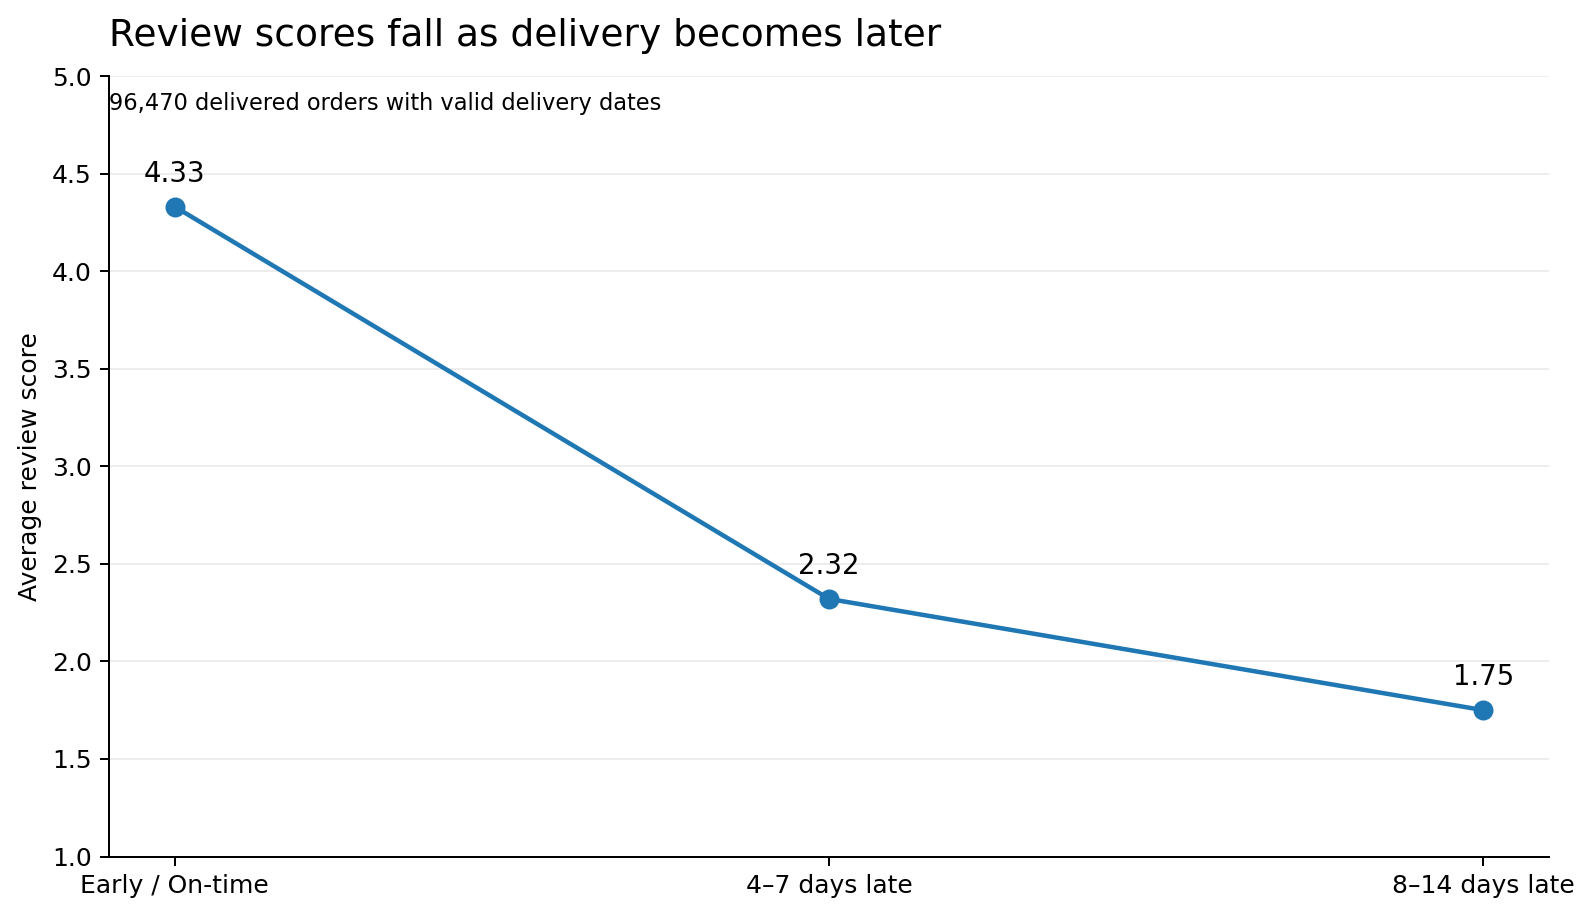
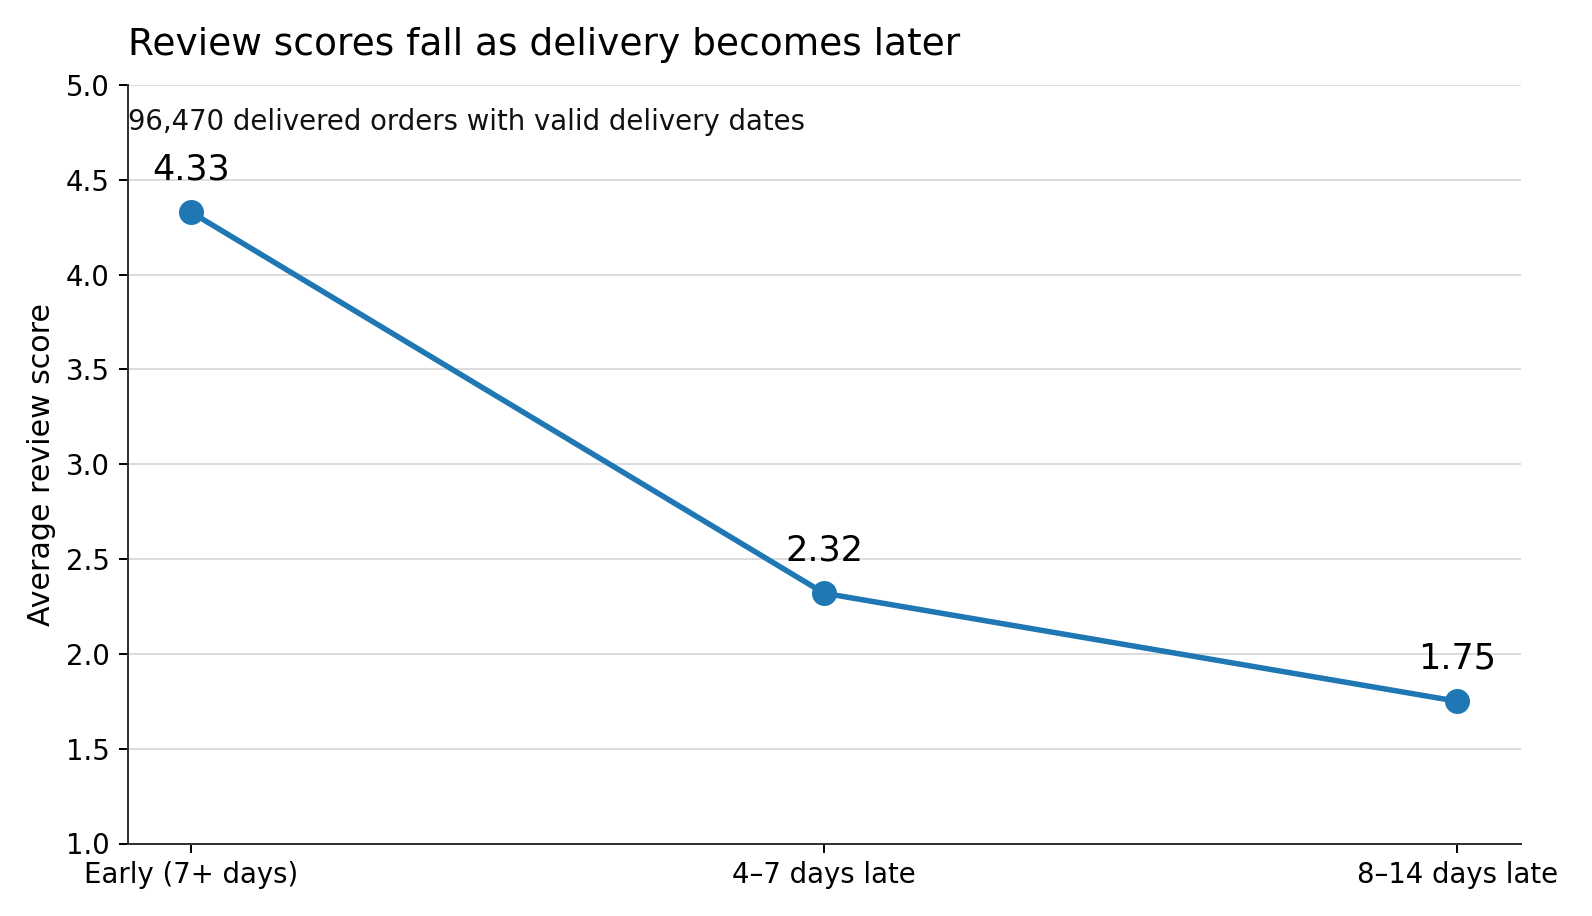
Correct chart labels and rebuild state chart from validated CSV

diff --git a/README.md b/README.md
@@ -18,7 +18,7 @@ Orders that arrive late get much worse reviews:
 
 | Delivery outcome | Avg review score | 1–2★ review share |
 |---|---|---|
-| Early / on time | 4.33 | 8.7% |
+| Early (7+ days) | 4.33 | 8.7% |
 | 4–7 days late | 2.32 | 61.2% |
 | 8–14 days late | 1.75 | 78.0% |
 
@@ -121,16 +121,19 @@ MA (384 orders, 22.7% late, review 4.018) and DF (799 orders, review 4.106).
 
 ## Visual Analysis
 
-The share of low (1–2★) reviews jumps from 8.7% for early/on-time orders to
-61.2% for orders 4–7 days late:
+The share of low (1–2★) reviews jumps from 8.7% for orders delivered 7+ days
+early to 61.2% for orders 4–7 days late:
 
 ![Low ratings become much more common with late delivery](outputs/02_delay_vs_low_review_share.png)
 
-Comparing the priority states with the best-performing eligible reference
-state (RS). Bars are negative because these orders, on average, still arrive
-before the (conservative) estimate — the question is how much earlier:
+All 22 seller states, ordered by average delivery delay (worst at top).
+Orders on average still arrive before Olist's conservative estimates, so
+negative bars mean "delivered earlier" — the comparison is how much earlier
+(or later) each state delivers. State order volumes are shown in brackets;
+AM (3 orders) and PA (8 orders) are tiny samples, which is why the state
+comparison in the README uses a ≥1,000-order threshold:
 
-![Seller-state delivery performance](outputs/03_state_delivery_delay.png)
+![Average delivery delay by seller state (all 22 states)](outputs/03_state_delivery_delay.png)
 
 Also in `outputs/`:
 
